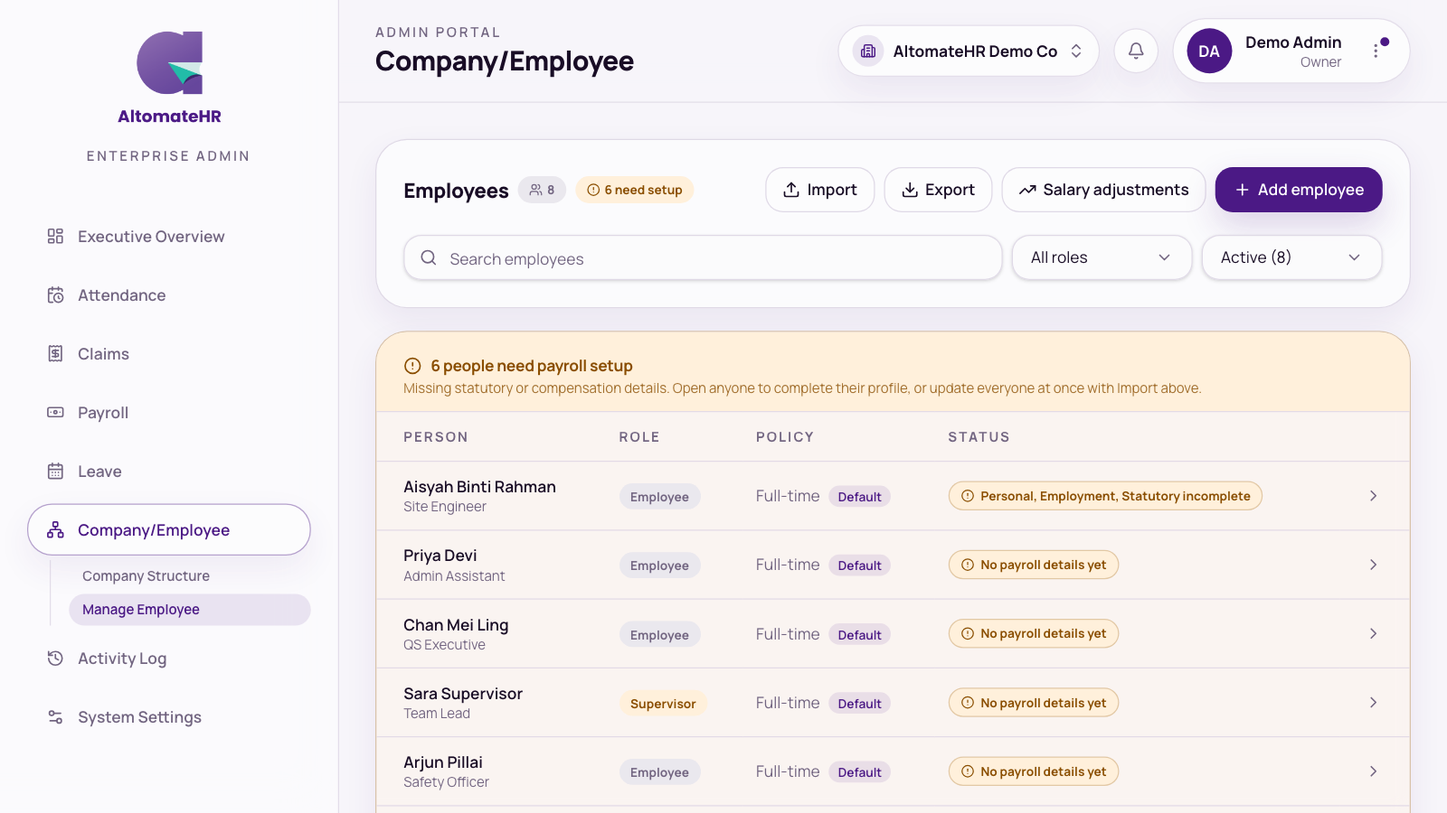
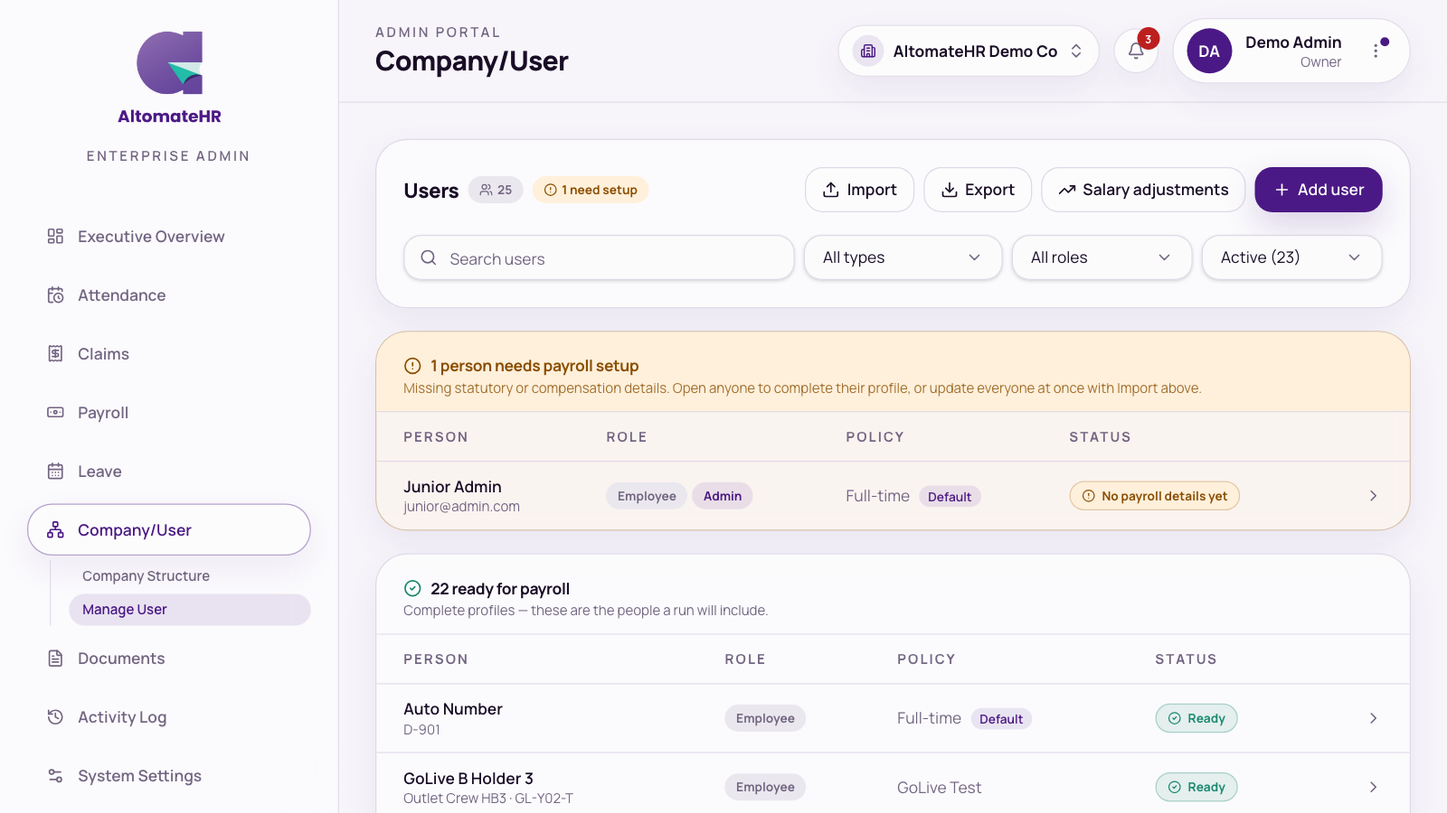
docs: What's new, API docs and user guide for employee & admin
Also renames the overview's Quick actions "Manage Employee" to Manage User.

diff --git a/user-guide/altomatehr-admin-guide.html b/user-guide/altomatehr-admin-guide.html
@@ -7,7 +7,7 @@
   Bookmark: this page is correct as of this commit on main. The next update
   re-checks every user-visible change after it — from any branch — then
   moves it forward.
-  user-guide-covered-up-to: 3a6d47a
+  user-guide-covered-up-to: 5550c52
 -->
 <html lang="en">
 <head>
@@ -402,7 +402,7 @@
       <li>The company switcher — if you look after several companies, switch here. <span class="btn-name">New
         company</span> creates one with you as its owner.</li>
       <li>The bell — requests and decisions as they happen, with <span class="btn-name">Mark all read</span></li>
-      <li>The ⋮ menu — <span class="btn-name">Change password</span> (not shown if you signed in through Altomate), push notifications (if your browser supports them), <span class="btn-name">What's new</span> (our release notes, with a dot on
+      <li>The ⋮ menu — <span class="btn-name">Switch to my portal</span> (only if you are also on the staff as an Employee &amp; admin — see <a href="#employees">Users</a>), <span class="btn-name">Change password</span> (not shown if you signed in through Altomate), push notifications (if your browser supports them), <span class="btn-name">What's new</span> (our release notes, with a dot on
         the menu until you've read the latest; admins and owners also see the lines meant only for admins), <span class="btn-name">Guide</span> (opens this guide in a new tab),
         <span class="btn-name">Launch Appraisify</span> (opens Appraisify in a new tab, so AltomateHR stays open; if your
         browser blocks the new tab, or AltomateHR is installed as a home-screen app, it opens in the same tab instead), and <span class="btn-name">Log out</span></li>
@@ -422,6 +422,10 @@
           <img src="shots/admin/layout-menu.png" alt="The ⋮ account menu: Change password, What&#x27;s new, Guide, Launch Appraisify, Log out" loading="lazy">
           <p class="shot-cap">⋮ menu</p>
         </div>
+        <div class="shot-item">
+          <img src="shots/admin/layout-menu-switch.png" alt="The admin portal's ⋮ menu for someone who is also on the staff, with Switch to my portal at the top" loading="lazy">
+          <p class="shot-cap">⋮ menu for an Employee &amp; admin</p>
+        </div>
       </div>
       <p class="shot-cap shot-cap-main">The admin portal — sidebar, company switcher, bell and account menu</p>
     </figure>
@@ -438,7 +442,7 @@
     <div class="topic-body">
     <p class="topic-lede">Where you land. Built around what needs a decision, not vanity totals.</p>
     <ul>
-      <li><strong>Quick actions</strong> — straight to Manage Employee, Company Structure, Organization, Policies,
+      <li><strong>Quick actions</strong> — straight to Manage User, Company Structure, Organization, Policies,
         Claim item types (Chart of accounts once Xero is connected) and Projects.</li>
       <li><strong>Documents expiring</strong> — shown first, and only when it applies: foreign workers whose work
         permit or passport has expired or runs out soon, soonest first, with which document it is, its number and how
@@ -648,9 +652,11 @@
                 connection. Claim item types and Projects follow their own module level.</li>
             </ul></li>
           <li><span class="btn-name">Remove</span> — takes the person off as an admin straight away (you confirm
-            first). Their login isn't deleted, and you can add them again later.</li>
+            first). Their login isn't deleted, and you can add them again later. If they are also on the staff
+            (Employee &amp; admin), they stay on the staff as an employee or supervisor — still paid, with their own
+            portal — and only lose admin access.</li>
         </ul>
-        <p>To add someone, open the <strong>Add admin</strong> tab, enter their name and email (and a temporary password
+        <p>Only the owner can add admins or change admin access. To add someone, open the <strong>Add admin</strong> tab, enter their name and email (and a temporary password
           for a new account), and press <span class="btn-name">Add admin</span>. <strong>Manage access</strong> opens
           straight away so you can set their limits — a new admin starts with full access until you do.</p></li>
     </ol>
@@ -892,17 +898,24 @@
   </details>
 
   <details class="topic" id="employees" open>
-    <summary><h2>Employees</h2></summary>
+    <summary><h2>Users</h2></summary>
     <div class="topic-body">
-    <p class="topic-lede"><strong>Company/Employee → Manage Employee.</strong> Everyone you pay, and everything
-      payroll needs to know about them.</p>
+    <p class="topic-lede"><strong>Company/User → Manage User.</strong> Everyone you pay, and everything
+      payroll needs to know about them. (It used to be called Manage Employee.) The page is headed <strong>Users</strong>.</p>
+    <p>There are three kinds of user: <strong>Employee only</strong> (on the staff, with their own employee portal),
+      <strong>Employee &amp; admin</strong> (on the staff <em>and</em> runs the admin portal — for example HR — with one
+      login) and <strong>Admin only</strong> (runs the admin portal but isn't on the staff or payroll — for example an
+      outside accountant). Only the owner can give or change admin access, and only the owner sees who is admin only.</p>
     <h3>The list</h3>
     <ul>
-      <li>Search, filter by <strong>role</strong>, and by <strong>status</strong> — <em>Active</em> (the default),
-        <em>Archived</em> or <em>All statuses</em>.</li>
+      <li><span class="btn-name">Search users</span>, filter by <strong>role</strong>, and by <strong>status</strong> — <em>Active</em> (the default),
+        <em>Archived</em> or <em>All statuses</em>. The owner also gets <strong>All types</strong>, to show <em>Employee only</em>,
+        <em>Employee &amp; admin</em> or <em>Admin only</em>.</li>
+      <li>An Employee &amp; admin shows their staff role (Employee or Supervisor) plus an <strong>Admin</strong> chip.</li>
       <li>People are split into three boxes: <strong>need payroll setup</strong> (something's missing),
         <strong>ready for payroll</strong> (who a run will include), and <strong>archived</strong> (left the company —
-        kept for their records, left out of runs after their last month).</li>
+        kept for their records, left out of runs after their last month). The owner also sees an
+        <strong>N admin only</strong> box, marked <em>Not on payroll</em>: no policy, leave or claims.</li>
       <li>Someone with a transfer queued has a tag under their name — <em>Transfer → Demo Transfer Co on 2026-11-01</em>
         (or <em>Transfer failed</em> if it didn't go through).</li>
       <li>Anyone with no salary on file is named in a warning — they'd get a zero payslip, which stops the run
@@ -910,7 +923,15 @@
     </ul>
     <h3>Adding people</h3>
     <ul>
-      <li><span class="btn-name">Add employee</span> — name, an optional <strong>Nickname</strong>, employee ID (optional — leave it blank and the next number in your company's pattern is assigned; the field shows it, for example <em>D-908 (auto)</em>), job title, join date, email, date
+      <li><span class="btn-name">Add user</span> — if you're the owner you're first asked what the person is:
+        <ul>
+          <li><strong>Employee only</strong> — the employee form below.</li>
+          <li><strong>Employee &amp; admin</strong> — the employee form as <em>step 1 of 2</em>, then press
+            <span class="btn-name">Next: admin access</span> and set their access in the Manage access dialog.</li>
+          <li><strong>Admin only</strong> — name, email and a temporary password for a new account, then Manage access.
+            Use <span class="btn-name">Back</span> to change your mind.</li>
+        </ul>
+        Anyone who isn't the owner goes straight to the employee form, which has: name, an optional <strong>Nickname</strong>, employee ID (optional — leave it blank and the next number in your company's pattern is assigned; the field shows it, for example <em>D-908 (auto)</em>), job title, join date, email, date
         of birth, role and policy. The policy starts on your default one (or, if you're an admin who can't see the default, on your own first policy). Their <strong>starting password</strong> is
         their email followed by their birth month and day (e.g. <code>ali@company.com1123</code>), or one you type.
         Tick <em>Send a welcome email</em> to have it sent to them.</li>
@@ -919,7 +940,9 @@
         <ol>
           <li><strong>Step 1</strong> — <span class="btn-name">Blank template</span> for new hires, or
             <span class="btn-name">Export current</span> to update people already here. The file's
-            <strong>READ ME</strong> sheet explains every column.</li>
+            <strong>READ ME</strong> sheet explains every column. The <strong>Role</strong> column is
+            <em>Employee</em> or <em>Supervisor</em> only — admin access is given by the owner from the person's
+            record, not by import.</li>
           <li><strong>Step 2</strong> — choose what a blank cell does: <em>Keep existing values</em> (the safe default —
             a partly filled file can't wipe anything) or <em>Erase existing values</em> (use only when the file is the
             full, up-to-date record; you're asked to confirm, and Name, Role, Employee No, Salary Type and EPF/EIS can't
@@ -946,19 +969,31 @@
     <figure class="shot" data-place="Employees">
       <div class="shot-grid" data-orient="screen">
         <div class="shot-item">
-          <img src="shots/admin/manage-employee.png" alt="Manage Employee with Import, Export, Salary adjustments and Add employee, the search and filters, and the need-payroll-setup box" loading="lazy">
-          <p class="shot-cap">Manage Employee</p>
+          <img src="shots/admin/manage-employee.png" alt="Manage User with the Users heading, Import, Export, Salary adjustments and Add user, the search, All types, All roles and status filters, and the need-payroll-setup box showing an Employee and Admin chip" loading="lazy">
+          <p class="shot-cap">Manage User</p>
+        </div>
+        <div class="shot-item">
+          <img src="shots/admin/add-user-kind.png" alt="The Add user dialog asking what the person is: Employee only, Employee and admin, or Admin only" loading="lazy">
+          <p class="shot-cap">Add user (owner)</p>
+        </div>
+        <div class="shot-item">
+          <img src="shots/admin/add-user-both.png" alt="Add employee and admin, step 1 of 2, with the employee form and the Next: admin access button" loading="lazy">
+          <p class="shot-cap">Employee &amp; admin, step 1 of 2</p>
+        </div>
+        <div class="shot-item">
+          <img src="shots/admin/user-admin-only-list.png" alt="Manage User filtered to Admin only, showing the 2 admin only box with Admin and Owner access and Not on payroll" loading="lazy">
+          <p class="shot-cap">Admin only filter</p>
         </div>
         <div class="shot-item">
           <img src="shots/admin/employee-import.png" alt="The Import employees dialog: Step 1 templates, Step 2 Keep or Erase existing values for blank cells, Step 3 upload" loading="lazy">
           <p class="shot-cap">Import</p>
         </div>
       </div>
-      <p class="shot-cap shot-cap-main">Manage Employee</p>
+      <p class="shot-cap shot-cap-main">Manage User</p>
     </figure>
 
-    <h3>An employee's record</h3>
-    <p>Click anyone to open their record. Five tabs, each showing how many required fields are still empty
+    <h3>A user's record</h3>
+    <p>Click anyone to open their record (<span class="btn-name">All users</span> takes you back to the list). Five tabs, each showing how many required fields are still empty
       (outlined in red):</p>
     <div class="tbl-scroll"><table>
       <thead><tr><th>Tab</th><th>What's in it</th></tr></thead>
@@ -979,8 +1014,37 @@
           teams and approval level they sit in. For someone on more than one project, a <strong>Main project</strong> section appears too</td></tr>
         <tr><td><strong>Documents</strong></td><td>ID scans, contracts, certificates — and, below them, the
           <strong>Letters</strong> card with the <a href="#letters">HR letters</a> kept for this person</td></tr>
+        <tr><td><strong>Admin access</strong> <span class="badge owner">Owner only</span></td><td>Shown only to the owner.
+          <span class="btn-name">Give admin access</span> makes an employee an Employee &amp; admin (then set their limits);
+          <span class="btn-name">Edit access</span> changes them; <span class="btn-name">Remove admin access</span>
+          takes the admin side away and keeps them on the staff</td></tr>
       </tbody>
     </table></div>
+    <h3>Admin access, and admin-only people</h3>
+    <ul>
+      <li>Open an <strong>Admin only</strong> person (the owner sees them in the <em>admin only</em> box) and you get a
+        simpler page: their access, with <span class="btn-name">Edit access</span> and
+        <span class="btn-name">Remove admin access</span> (for them it removes them from the company; their login isn't deleted),
+        and an <strong>Employee record</strong> card. Pick <em>Employee</em> or <em>Supervisor</em> and press
+        <span class="btn-name">Create employee record</span> to put them on the staff as well.</li>
+      <li><strong>Your own record.</strong> If you are an Employee &amp; admin, you can't change your own salary, payroll
+        adjustments, loans, leave or your own rows in an import from the admin portal. Ask another admin or the owner.
+        Your own leave, claims and payslips are in your employee portal — use <span class="btn-name">Switch to my portal</span>
+        in the ⋮ menu.</li>
+    </ul>
+    <figure class="shot" data-place="Users">
+      <div class="shot-grid" data-orient="screen">
+        <div class="shot-item">
+          <img src="shots/admin/user-admin-access.png" alt="An Employee and admin's record on the Admin access tab, with Edit access, Remove admin access and the note about their own record" loading="lazy">
+          <p class="shot-cap">Admin access tab</p>
+        </div>
+        <div class="shot-item">
+          <img src="shots/admin/user-admin-only.png" alt="An admin-only person's page with their access and the Create employee record card" loading="lazy">
+          <p class="shot-cap">Admin only person</p>
+        </div>
+      </div>
+      <p class="shot-cap shot-cap-main">Admin access</p>
+    </figure>
     <h3>Nicknames</h3>
     <p>Some people are known by a shorter name. Give them a <strong>Nickname</strong> and supervisors and
       admins see it beside the full name wherever the app shows who someone is, for example
@@ -2533,7 +2597,7 @@
       name. Use the employee list at the top to see one person's. Click a letter, or its
       download button, to open the PDF; the bin button deletes it for good after you confirm. The same list for one
       person is on the <strong>Letters</strong> card at the bottom of their <strong>Documents</strong> tab in
-      <a href="#employees">Manage Employee</a> — separate from the ID scans and contracts above it, which the employee
+      <a href="#employees">Manage User</a> — separate from the ID scans and contracts above it, which the employee
       <em>can</em> see.</p>
     <p>Probation and confirmation details for the letters live on the <strong>Employment</strong> tab of the record:
       <strong>Probation (months)</strong> and <strong>Confirmation date</strong>.</p>

diff --git a/api-docs/employees.html b/api-docs/employees.html
@@ -107,7 +107,8 @@
               <tr><td><code>email</code></td><td>string</td><td>Login email.</td></tr>
               <tr><td><code>name</code></td><td>string</td><td>Display name.</td></tr>
               <tr><td><code>avatarUrl</code></td><td>string | null</td><td>Profile picture, if set.</td></tr>
-              <tr><td><code>role</code></td><td>string</td><td><code>Employee</code>, <code>Supervisor</code>, <code>Admin</code> or <code>Owner</code> — in this org.</td></tr>
+              <tr><td><code>role</code></td><td>string</td><td><code>Employee</code>, <code>Supervisor</code>, <code>Admin</code> or <code>Owner</code> — in this org. This is their admin access, not whether they work here: see <code>employmentRole</code>.</td></tr>
+              <tr><td><code>employmentRole</code></td><td>string | null</td><td>Whether they work here. For an <code>Employee</code> or <code>Supervisor</code> it equals <code>role</code>. For an <code>Admin</code> or <code>Owner</code> it is <code>"Employee"</code> or <code>"Supervisor"</code> when they are also on the staff (an "Employee &amp; admin": paid by payroll, on teams, has a policy), or <code>null</code> when they are admin only.</td></tr>
               <tr><td><code>employeeNumber</code></td><td>string | null</td><td>Staff/payroll number in this org.</td></tr>
               <tr><td><code>jobTitle</code></td><td>string | null</td><td></td></tr>
               <tr><td><code>nickname</code></td><td>string | null</td><td>What colleagues call them in this org, e.g. <code>"JT"</code>. Per company (it belongs to the membership, not the user). <code>name</code> above stays the legal name; other endpoints that return a display name append the nickname as <code>"Name (Nickname)"</code>.</td></tr>
@@ -149,7 +150,8 @@
               <tr><td><code>jobTitle</code></td><td>string</td><td>No</td><td>Max 120 chars.</td></tr>
               <tr><td><code>nickname</code></td><td>string</td><td>No</td><td>Max 60 chars. Trimmed; blank is stored as none. Applies to this company only, even when the email already belongs to someone at another company.</td></tr>
               <tr><td><code>joinDate</code></td><td>string (date)</td><td>No</td><td>Drives pro-rated leave accrual.</td></tr>
-              <tr><td><code>role</code></td><td>string</td><td>Yes</td><td>One of <code>Employee</code>, <code>Supervisor</code>, <code>Admin</code>, <code>Owner</code> (case-insensitive). Defaults to <code>Employee</code> if omitted.</td></tr>
+              <tr><td><code>role</code></td><td>string</td><td>Yes</td><td>One of <code>Employee</code>, <code>Supervisor</code>, <code>Admin</code>, <code>Owner</code> (case-insensitive). Defaults to <code>Employee</code> if omitted. Creating an <code>Admin</code> or <code>Owner</code> is the Owner's call &mdash; see <a href="#admin-changes">Admin changes are Owner-only</a>.</td></tr>
+              <tr><td><code>employmentRole</code></td><td>string | null</td><td>No</td><td>Max 20 chars. Only read when <code>role</code> is <code>Admin</code> or <code>Owner</code>: <code>"Employee"</code> or <code>"Supervisor"</code> makes them an Employee &amp; admin (gets an employee number if none is given), <code>""</code> or omitted = admin only. Any other value is a <code>400</code>. Ignored for an <code>Employee</code> or <code>Supervisor</code>.</td></tr>
               <tr><td><code>policyId</code></td><td>string</td><td>No</td><td>Max 40 chars.</td></tr>
               <tr><td><code>shiftId</code></td><td>string</td><td>No</td><td>Max 40 chars.</td></tr>
               <tr><td><code>modules</code></td><td>string[] | null</td><td>No</td><td>Per-admin module grant (only meaningful for an <code>Admin</code>). <code>null</code> = full access, <code>[]</code> = locked out, otherwise a subset of the plan's modules.</td></tr>
@@ -169,6 +171,7 @@
             <thead><tr><th>Status</th><th>When</th><th>Body</th></tr></thead>
             <tbody>
               <tr><td><code>400</code></td><td>Bad role, blank email, already a member, or a new account missing a required field</td><td><code>{ "error": "…" }</code></td></tr>
+              <tr><td><code>400</code></td><td><code>role</code> is <code>Admin</code>/<code>Owner</code> (any key, see <a href="#admin-changes">below</a>), or <code>employmentRole</code> is not <code>Employee</code>, <code>Supervisor</code> or empty</td><td><code>{ "error": "Only the organization's owner can add admins or change an admin's role and access." }</code> or <code>{ "error": "Employment must be Employee, Supervisor, or empty for admin only." }</code></td></tr>
             </tbody>
           </table>
         </div>
@@ -239,7 +242,8 @@
               <tr><td><code>nickname</code></td><td>string | null</td><td>No</td><td>Max 60 chars. <code>null</code> = unchanged, <code>""</code> = clear.</td></tr>
               <tr><td><code>joinDate</code></td><td>string (date) | null</td><td>No</td><td><code>null</code> = unchanged. Recomputes pro-rated leave accrual when it actually changes.</td></tr>
               <tr><td><code>clearJoinDate</code></td><td>boolean</td><td>No</td><td>Default <code>false</code>. Wins over <code>joinDate</code>.</td></tr>
-              <tr><td><code>role</code></td><td>string</td><td>Yes</td><td>One of <code>Employee</code>, <code>Supervisor</code>, <code>Admin</code>, <code>Owner</code>. Always replaced — resend the current value to leave it as is.</td></tr>
+              <tr><td><code>role</code></td><td>string</td><td>Yes</td><td>One of <code>Employee</code>, <code>Supervisor</code>, <code>Admin</code>, <code>Owner</code>. Always replaced — resend the current value to leave it as is. Moving an <code>Employee</code>/<code>Supervisor</code> up to <code>Admin</code> or <code>Owner</code> keeps them on the staff (their old role becomes <code>employmentRole</code>); moving an admin down makes the new role their only one.</td></tr>
+              <tr><td><code>employmentRole</code></td><td>string | null</td><td>No</td><td>Max 20 chars. For an <code>Admin</code> or <code>Owner</code> only: <code>"Employee"</code> or <code>"Supervisor"</code> = also works here, <code>""</code> = admin only, <code>null</code>/omitted = unchanged. Any other value is a <code>400</code>. Ignored for an <code>Employee</code> or <code>Supervisor</code>. Putting an admin on or off the staff marks every payroll draft stale.</td></tr>
               <tr><td><code>policyId</code></td><td>string | null</td><td>No</td><td>Replaced outright; <code>null</code> falls back to the org default.</td></tr>
               <tr><td><code>shiftId</code></td><td>string | null</td><td>No</td><td>Replaced outright; <code>null</code> falls back to the project default.</td></tr>
               <tr><td><code>modules</code></td><td>string[] | null</td><td>No</td><td>Replaced outright. <code>null</code> = full access, <code>[]</code> = locked out.</td></tr>
@@ -253,7 +257,8 @@
           <table>
             <thead><tr><th>Status</th><th>When</th><th>Body</th></tr></thead>
             <tbody>
-              <tr><td><code>400</code></td><td>Bad role, duplicate email, an email change that is refused (<a href="#update-employee-email">below</a>), or demoting someone who still has people routing approvals to them</td><td><code>{ "error": "…" }</code></td></tr>
+              <tr><td><code>400</code></td><td>Bad role, duplicate email, an email change that is refused (<a href="#update-employee-email">below</a>), or demoting someone who still has people routing approvals to them. Also the Owner-only refusal for any change to an admin (<a href="#admin-changes">below</a>) and the bad-<code>employmentRole</code> message</td><td><code>{ "error": "…" }</code></td></tr>
+              <tr><td><code>403</code></td><td>The target is the calling admin's own record (<a href="#own-record">below</a>)</td><td><code>{ "error": { "status": 403, "message": "…" } }</code></td></tr>
               <tr><td><code>404</code></td><td><code>{id}</code> is not a member of this organization</td><td>empty</td></tr>
             </tbody>
           </table>
@@ -1063,6 +1068,47 @@
 <pre><code>curl https://&lt;api-host&gt;/pending \
   -H "Authorization: Bearer wp_live_xxx"</code></pre>
       </section>
+    </section>
+
+    <section class="section" id="admin-changes">
+      <h2>Admin changes are Owner-only</h2>
+      <p>
+        Admin access is the Owner's to give. Creating an <code>Admin</code> or <code>Owner</code>, promoting
+        someone to one, changing an admin's <code>role</code> or <code>modules</code>, and changing whether
+        an admin also works here (<code>employmentRole</code>) are refused for <strong>any</strong> caller whose
+        role is <code>Admin</code>, even one with full module access. An API key always acts as an Admin,
+        so through a key these requests return <code>400</code>
+        <code>{ "error": "Only the organization's owner can add admins or change an admin's role and access." }</code>.
+        A save that leaves an admin's role, modules and employment as they are still goes through.
+      </p>
+      <p>
+        The <code>Role</code> column of <a href="#import">POST /employees/import</a> accepts
+        <code>Employee</code> or <code>Supervisor</code> only. On a new row, <code>Admin</code>/<code>Owner</code>
+        is a row error (<code>"Role can only be Employee or Supervisor here. Admin access is given by the owner from the user's Admin access tab."</code>).
+        On an existing admin's row, <code>Employee</code>/<code>Supervisor</code> sets their <code>employmentRole</code>
+        and keeps them an admin, and their own <code>Admin</code>/<code>Owner</code> is read as no change (an
+        admin-only row exports as that). The export's Role column shows <code>employmentRole</code> when set.
+      </p>
+    </section>
+
+    <section class="section" id="own-record">
+      <h2>Your own record</h2>
+      <p>
+        An <code>Admin</code> who is also on the staff (an Employee &amp; admin) can't change <em>their own</em>
+        employee record from the admin portal, so nobody can raise their own pay. This reaches every
+        non-read endpoint on this page keyed by <code>{id}</code>/<code>{userId}</code>, and the same
+        rule is applied to the payroll employee, salary-change, run-adjustment, employee and attendance
+        imports, to loans, and to leave admin-edit, admin-cancel and filing leave on someone's behalf.
+        Reads are unaffected. The Owner is exempt.
+      </p>
+      <div class="callout warn">
+        <strong>For an API key:</strong> a plain organization key has no person behind it, so it is never
+        refused. A key minted to act as a specific admin (it carries that admin's identity) is refused when
+        that admin is on the staff and the request targets their own record. Route-keyed endpoints
+        answer <code>403</code> <code>{ "error": { "status": 403, "message": "You can't change your own employee record from the admin portal. Ask another admin or the owner." } }</code>;
+        imports list the same message against that row in <code>errors</code> (still <code>200</code>); loans answer
+        <code>400</code> <code>{ "error": "…" }</code> and leave <code>400</code> <code>{ "message": "…" }</code>, with that message.
+      </div>
     </section>
 
     <section class="section" id="not-available">

diff --git a/frontend/src/features/whats-new/lib/entries.ts b/frontend/src/features/whats-new/lib/entries.ts
@@ -8,7 +8,7 @@
 //
 // Bookmark: the last commit on main these notes already cover. The next update
 // writes up everything after it — from any branch — then moves it forward.
-// whats-new-covered-up-to: 3a6d47a
+// whats-new-covered-up-to: 5550c52
 
 // A line is for everyone, or — wrapped in admins(…) — for admins and owners
 // only. Employees and supervisors never see an admins line, so it doesn't
@@ -30,14 +30,19 @@ export type WhatsNewEntry = {
 export const WHATS_NEW: WhatsNewEntry[] = [
   {
     date: "2026-11-25",
-    title: "A main project for staff on several projects",
+    title: "Main projects, and admins who are also on the staff",
     new: [
       admins("Employees on teams in more than one project can now have a main project, in Employee → Company → Main project. Their pay posts to Xero under it."),
       admins("Payroll settings → Xero sync lists anyone on several projects with no main project. Their pay posts under \"(No project)\" until one is set."),
+      admins("Admins can now also be on the staff, with one login. Add a user as Employee & admin, or give admin access from their record's Admin access tab (owner only)."),
+      admins("Manage Employee is now Manage User. Add user asks Employee only, Employee & admin or Admin only, and the owner can filter the list by type."),
+      admins("An admin on the staff switches between the admin portal and My portal from the account menu. Their own pay, leave and loans are changed by another admin or the owner."),
     ],
     improved: [
       admins("The AI split's project rules now match on an employee's main project."),
       admins("With \"Sum by project\", split lines stay separate for each project and carry that project's tag."),
+      admins("Only the owner can add admins or change admin access now, including through the import. The import's Role column takes Employee or Supervisor only."),
+      admins("Removing admin access from an Employee & admin in Settings → Admins keeps them on payroll. Existing admins stay admin only, so nobody's pay changes."),
     ],
   },
   {

diff --git a/user-guide/altomatehr-employee-guide.html b/user-guide/altomatehr-employee-guide.html
@@ -7,7 +7,7 @@
   Bookmark: this page is correct as of this commit on main. The next update
   re-checks every user-visible change after it — from any branch — then
   moves it forward.
-  user-guide-covered-up-to: 3a6d47a
+  user-guide-covered-up-to: 5550c52
 -->
 <html lang="en">
 <head>
@@ -502,6 +502,10 @@
           <p class="shot-cap">The ⋮ menu</p>
         </div>
         <div class="shot-item">
+          <img src="shots/employee/account-menu-switch.png" alt="The ⋮ account menu for someone who is also an admin, with Switch to admin portal at the top" loading="lazy">
+          <p class="shot-cap">If you're also an admin</p>
+        </div>
+        <div class="shot-item">
           <img src="shots/employee/sup-more-menu.png" alt="A supervisor&#x27;s Attendance tabs with the ⋯ menu open: History and Team" loading="lazy">
           <p class="shot-cap">Supervisors: extra sub-pages under ⋯</p>
         </div>
@@ -967,6 +971,9 @@
     <div class="topic-body">
     <p class="topic-lede">All in the <strong>⋮</strong> menu at the top.</p>
     <ul>
+      <li><strong>Switch to admin portal</strong> — only if you are also an admin here (an Employee &amp; admin). One login,
+        two portals: it opens the admin portal, and <span class="btn-name">Switch to my portal</span> there brings you
+        back to this one.</li>
       <li><strong>Change password</strong> — signs you out of every device afterwards. Not shown if you signed in
         through Altomate — your password is managed there.</li>
       <li><strong>Notifications</strong> — <span class="btn-name">Enable push notifications</span> to hear about approvals

diff --git a/frontend/src/features/admin/components/AdminOverview.tsx b/frontend/src/features/admin/components/AdminOverview.tsx
@@ -19,7 +19,7 @@ type QuickLink = { parent: string; child: string; label: string; hint: string; i
 
 // Base admin config — always available (not module-gated; these are settings, not analytics).
 const quickLinks: QuickLink[] = [
-  { parent: "company", child: "manage-employee", label: "Manage Employee", hint: "Roles, supervisors & policies", icon: Users },
+  { parent: "company", child: "manage-employee", label: "Manage User", hint: "Staff, admins, roles & policies", icon: Users },
   { parent: "company", child: "company-structure", label: "Company Structure", hint: "Projects, teams & approval chains", icon: Network },
   { parent: "settings", child: "settings-organization", label: "Organization", hint: "Company profile & geofence", icon: Building2 },
   { parent: "settings", child: "settings-policies", label: "Policies", hint: "Enforcement & entitlements", icon: ShieldCheck },

diff --git a/api-docs/organization.html b/api-docs/organization.html
@@ -954,7 +954,7 @@
         Listing admins and setting their module access (<code>GET /organizations/admins</code>,
         <code>PUT /organizations/admins/{userId}/access</code>), editing an admin's name and login email
         (<code>PUT /organizations/admins/{userId}</code>), removing an admin
-        (<code>DELETE /organizations/admins/{userId}</code>), creating a company
+        (<code>DELETE /organizations/admins/{userId}</code>; it now returns <code>employmentRole</code> on each admin, and removing an Employee &amp; admin only takes their admin access away), creating a company
         (<code>POST /organizations</code>) and changing a company's plan
         (<code>PUT /organizations/{organizationId}/plan</code>) answer <code>403</code> to any
         key.

diff --git a/frontend/src/features/fah/components/FahLauncher.tsx b/frontend/src/features/fah/components/FahLauncher.tsx
@@ -753,7 +753,7 @@ function DownloadButton({ onDownload }: { onDownload: () => Promise<void> }) {
         void onDownload().finally(() => setBusy(false));
       }}
       disabled={busy}
-      title="AltomateHR's import file: check it in Excel, then import it from Manage Employee"
+      title="AltomateHR's import file: check it in Excel, then import it from Manage User"
       className="inline-flex items-center gap-1.5 rounded-full border border-border/70 bg-card px-4 py-1.5 text-xs font-semibold text-foreground transition hover:bg-muted disabled:opacity-60"
     >
       {busy ? <LoaderCircle className="size-3.5 animate-spin" /> : <Download className="size-3.5" />}

diff --git a/api-docs/index.html b/api-docs/index.html
@@ -25,7 +25,7 @@
   Bookmark: the pages that exist are correct as of this commit on main. The
   next update re-checks every controller/DTO changed after it — from any
   branch — then moves it forward.
-  api-docs-covered-up-to: 3a6d47a
+  api-docs-covered-up-to: 5550c52
 -->
 <div class="layout">
   <nav class="sidebar" aria-label="Documentation">
